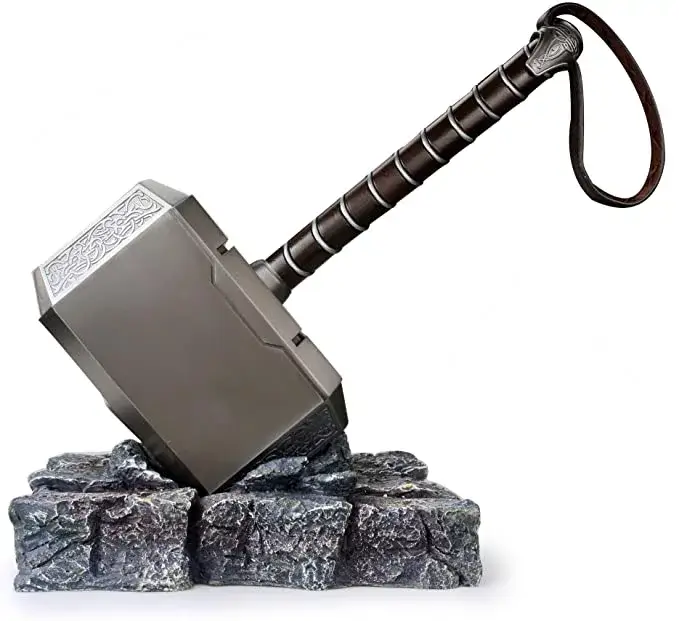
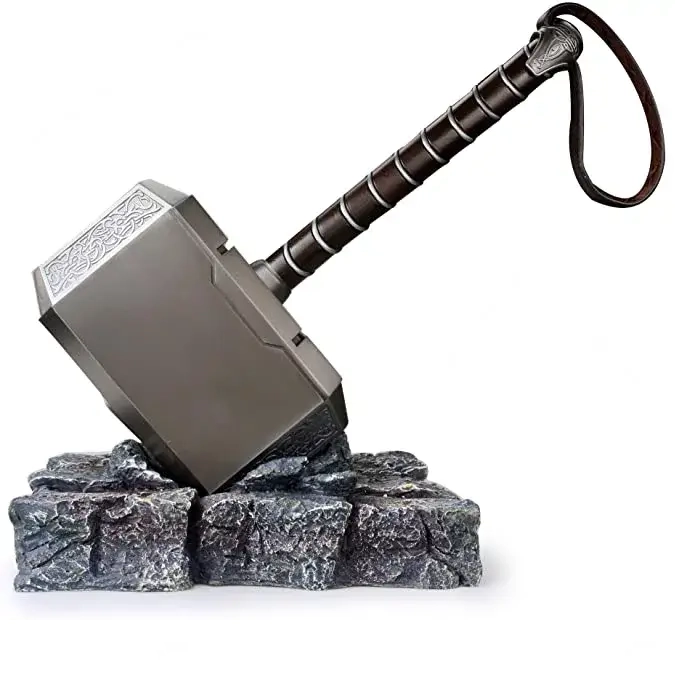
size fixes -adjusted carousel image sizing til I got it where i like it. -adjusted Mjolnir image size to match others.

Changed region(s): [[0.0, 0.0, 0.9956, 0.9791]]

diff --git a/src/components/Inventory/ProductView/ItemExpanded.js b/src/components/Inventory/ProductView/ItemExpanded.js
@@ -11,8 +11,8 @@ export default function itemExpanded(props) {
     props.setQuanity((prevState) => --prevState);
   };
   return (
-    <div className='flex absolute top-20 bg-gray-600 bg-opacity-30 h-full w-full md:fixed md:justify-center'>
-      <div className='flex flex-col items-center h-1/6 bg-gray-600 relative py-5 md:justify-around md:p-4 md:w-1/2 md:m-10 md:h-4/6 md:rounded md:overflow-hidden xl:h-5/6'>
+    <div className='flex absolute top-20 bg-gray-600 bg-opacity-30 w-full h-full md:fixed md:justify-center'>
+      <div className='flex flex-col items-center h-1/6 bg-gray-600 overflow-hidden relative rounded py-auto md:justify-around md:w-auto md:m-10 md:h-4/6 xl:h-5/6 lg:max-w-5xl'>
         <div className='w-full py-5'>
           <FaWindowClose
             onClick={props.closeWindow}
@@ -26,7 +26,7 @@ export default function itemExpanded(props) {
         <div className='flex flex-col items-center justify-center md:flex-row'>
           <div className='flex flex-col md:flex-row'>
             <ImageCarousel itemData={props.item} />
-            <ul className='flex flex-col text-left w-1/2 self-center text-white text-sm list-inside md:text-base lg:list-disc md:p-2'>
+            <ul className='flex flex-col text-left w-2/5 self-center text-white text-sm list-inside md:text-base lg:list-disc md:p-2'>
               {props.item.description.map((bulletPoint) => (
                 <li key={bulletPoint} className='pt-1'>
                   {bulletPoint}
@@ -52,7 +52,7 @@ export default function itemExpanded(props) {
         </div>
         <button
           onClick={props.addToCart}
-          className='border-2 p-2 m-1 rounded-lg text-yellow-300 font-bold hover:bg-yellow-300 hover:text-black hover:border-black'
+          className='border-2 p-2 m-4 rounded-lg text-yellow-300 font-bold hover:bg-yellow-300 hover:text-black hover:border-black'
         >
           Add to Cart
         </button>

diff --git a/src/components/Inventory/ProductView/ImageCarousel/Arrows.js b/src/components/Inventory/ProductView/ImageCarousel/Arrows.js
@@ -6,19 +6,19 @@ function Arrows(props) {
     switch (props.imageSelected) {
       case 1:
         props.setImageStyle(
-          'flex w-96 h-96 transform -translate-x-full transition-transform duration-500 ease-in-out'
+          'flex transform -translate-x-full transition-transform duration-500 ease-in-out'
         );
         props.setImageSelected(2);
         break;
       case 2:
         props.setImageStyle(
-          'flex w-96 h-96 transform translate-x-fullx1 transition-transform duration-500 ease-in-out'
+          'flex transform translate-x-fullx1 transition-transform duration-500 ease-in-out'
         );
         props.setImageSelected(3);
         break;
       default:
         props.setImageStyle(
-          'flex w-96 h-96 translate-x-0 transition-transform duration-500 ease-in-out'
+          'flex translate-x-0 transition-transform duration-500 ease-in-out'
         );
         props.setImageSelected(1);
         break;
@@ -28,19 +28,19 @@ function Arrows(props) {
     switch (props.imageSelected) {
       case 1:
         props.setImageStyle(
-          'flex w-96 h-96 transform translate-x-fullx1 transition-transform duration-500 ease-in-out'
+          'flex transform translate-x-fullx1 transition-transform duration-500 ease-in-out'
         );
         props.setImageSelected(3);
         break;
       case 2:
         props.setImageStyle(
-          'flex w-96 h-96 translate-x-0 transition-transform duration-500 ease-in-out'
+          'flex translate-x-0 transition-transform duration-500 ease-in-out'
         );
         props.setImageSelected(1);
         break;
       default:
         props.setImageStyle(
-          'flex w-96 h-96 transform -translate-x-full transition-transform duration-500 ease-in-out'
+          'flex transform -translate-x-full transition-transform duration-500 ease-in-out'
         );
         props.setImageSelected(2);
         break;

diff --git a/src/components/Inventory/ProductView/ImageCarousel/ImageCarousel.js b/src/components/Inventory/ProductView/ImageCarousel/ImageCarousel.js
@@ -6,15 +6,13 @@ import SliderContent from './SliderContent';
 function ImageCarousel(props) {
   const [imageSelected, setImageSelected] = useState(1);
   const [imageStyle, setImageStyle] = useState(
-    'flex w-96 h-96 translate-x-0 transition-transform duration-500 ease-in-out'
+    'flex translate-x-0 transition-transform duration-500 ease-in-out'
   );
 
   const nextImageBtn = () => {};
   return (
-    <div className='relative'>
-      <div className='w-96 h-96 overflow-hidden'>
-        <SliderContent itemData={props.itemData} imageStyle={imageStyle} />
-      </div>
+    <div className='relative w-80 h-80 mx-auto my-4 overflow-hidden max-w-md rounded lg:w-auto lg:h-auto'>
+      <SliderContent itemData={props.itemData} imageStyle={imageStyle} />
       <Arrows
         imageStyle={imageStyle}
         setImageStyle={setImageStyle}

diff --git a/src/components/Inventory/ProductView/ImageCarousel/SliderContent.js b/src/components/Inventory/ProductView/ImageCarousel/SliderContent.js
@@ -1,14 +1,19 @@
 import React, { useState } from 'react';
 
 function SliderContent(props) {
+  // console.log(props.gallery
   return (
-    <div>
+    <>
       <div className={props.imageStyle}>
         {props.itemData.gallery.map((image) => (
-          <img src={image} alt='asdf' className='' />
+          <img
+            src={image}
+            alt='asdf'
+            className='w-80 h-80 max-w-md lg:w-auto lg:h-auto'
+          />
         ))}
       </div>
-    </div>
+    </>
   );
 }
 
